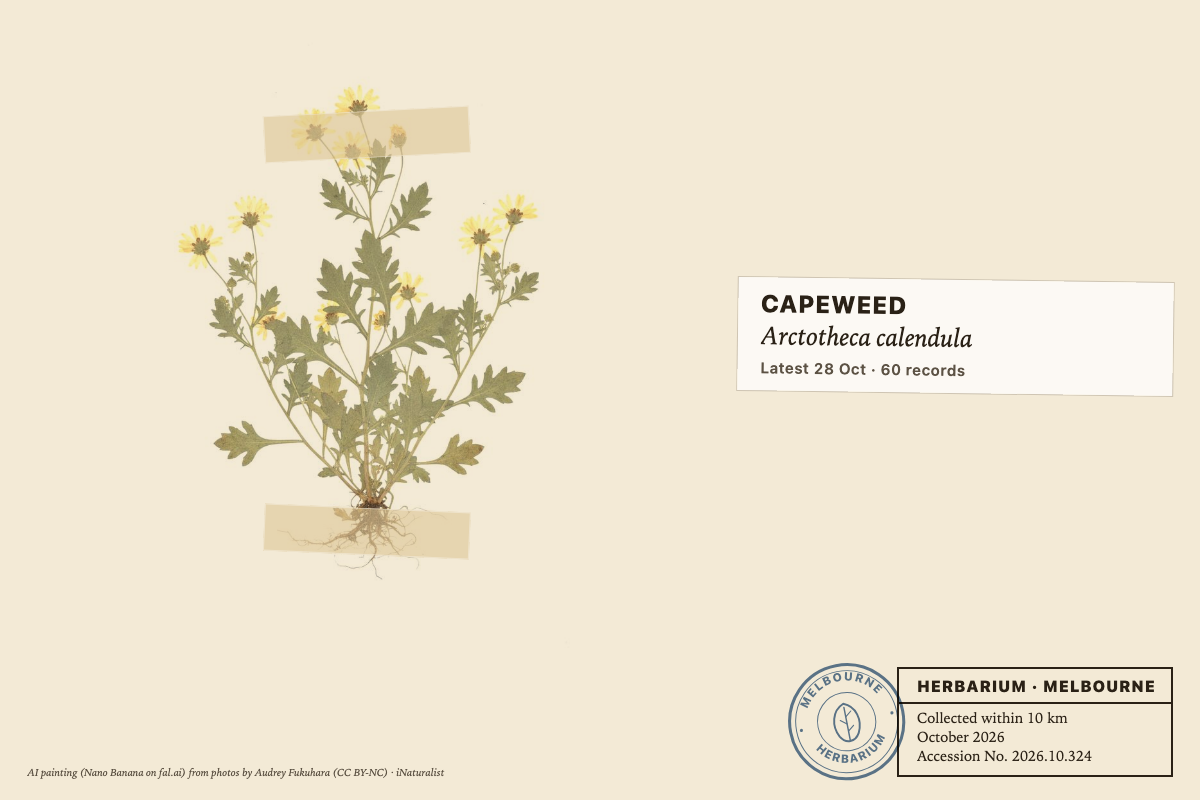
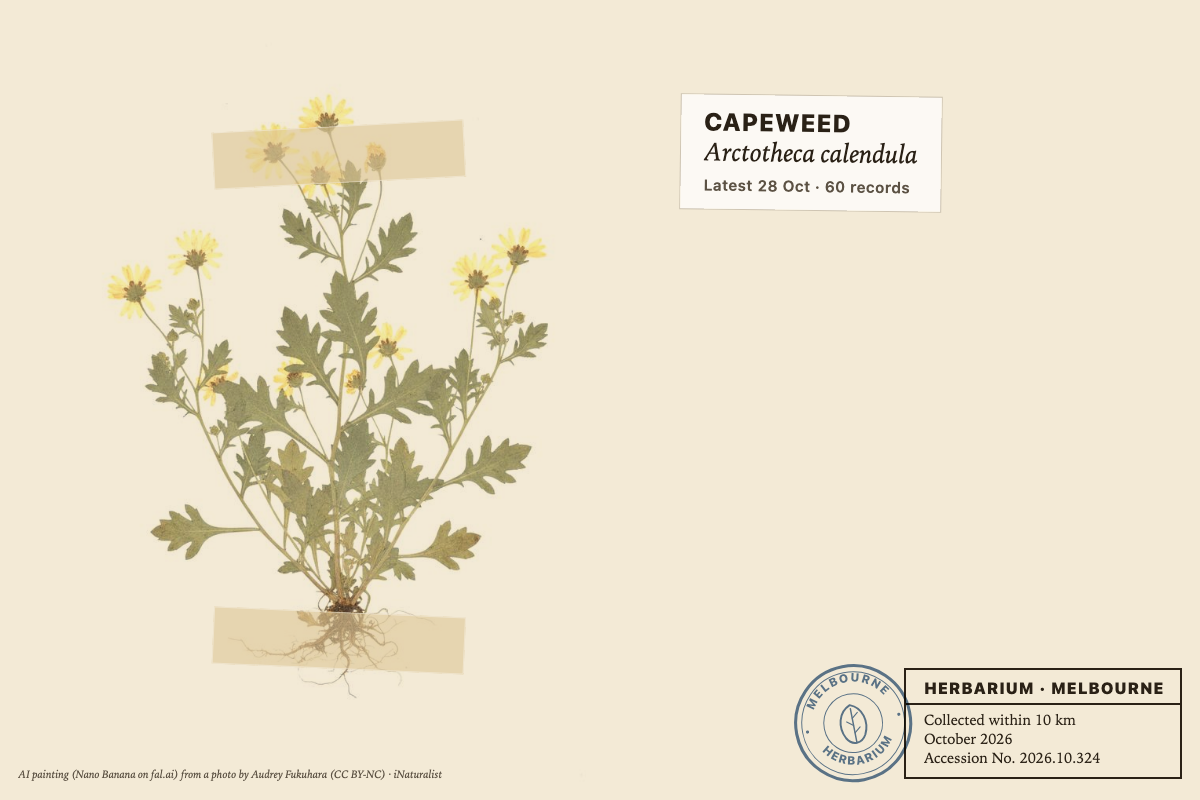
fix: larger specimen on the single plate, tighter mounted spacing
The single plate's mount now takes about nine tenths of the cell height with the label slip beside it on landscape and under it on portrait, the label block and stamp sitting over the corner. The mounted layout loses some padding and gap so the specimens grow.

diff --git a/client.css b/client.css
@@ -21,7 +21,7 @@
   color: var(--ink);
   font-family: var(--font-family, inherit);
   font-variant-numeric: tabular-nums;
-  padding: 3cqmin 3.4cqmin 2.2cqmin;
+  padding: 2.4cqmin 2.4cqmin 2cqmin;
 }
 .lv-gray16, .lv-gray4, .lv-mono { --ink: #000; --ink-soft: #222; --stamp: #000; }
 .lv-gray4, .lv-mono { --tape: rgba(0, 0, 0, 0.16); --tape-edge: rgba(0, 0, 0, 0.1); --slip: rgba(255, 255, 255, 0.9); }
@@ -31,7 +31,7 @@
 
 .mount {
   flex: 1 1 auto; min-height: 0;
-  display: grid; gap: 1.5cqmin 2.5cqmin;
+  display: grid; gap: 1cqmin 1.4cqmin;
   grid-auto-rows: minmax(0, 1fr);
   align-items: stretch;
 }
@@ -44,14 +44,14 @@
 .spec {
   margin: 0; min-height: 0; min-width: 0;
   display: flex; flex-direction: column; align-items: center; justify-content: center;
-  gap: 1.2cqmin;
+  gap: 0.5cqmin;
 }
 /* the picture's room: the rest of the column, but never taller than a 3:4
    box as wide as the column needs, so a wide cell centres the specimen and
    its slip rather than leaving a blank band above them */
 .pic {
   flex: 1 1 auto; min-height: 0; width: 100%;
-  max-height: calc((100cqw - 6.8cqmin - (var(--cols, 1) - 1) * 2.5cqmin) / var(--cols, 1) * 4 / 3);
+  max-height: calc((100cqw - 4.8cqmin - (var(--cols, 1) - 1) * 1.4cqmin) / var(--cols, 1) * 4 / 3);
   container-type: size;
   display: flex; align-items: flex-end; justify-content: center;
 }
@@ -126,7 +126,7 @@
 .foot {
   flex: 0 0 auto;
   display: flex; align-items: flex-end; justify-content: space-between; gap: 3cqmin;
-  margin-top: 1.6cqmin;
+  margin-top: 0.8cqmin;
 }
 .credits {
   flex: 1 1 auto; min-width: 0; align-self: flex-end;
@@ -163,13 +163,17 @@
 /* ---- single plate ----------------------------------------------------- */
 
 .lay-plate .mount { grid-template-columns: 1fr; }
-.lay-plate .spec { flex-direction: row; align-items: center; justify-content: center; gap: 4cqmin; }
-.lay-plate .pic { flex: 1 1 auto; height: 100%; max-height: none; align-items: center; }
+.lay-plate .spec { flex-direction: row; align-items: center; justify-content: flex-start; gap: 3cqmin; }
+.lay-plate .pic { flex: 0 0 auto; width: 55cqw; height: 100%; max-height: none; align-items: center; justify-content: center; }
 .lay-plate .pic-box { width: min(100%, 75cqh); }
-.lay-plate .slip { flex: 0 0 34cqw; align-items: flex-start; text-align: left; padding: 1.6cqmin 3cqmin 1.8cqmin; transform: rotate(0.8deg); }
+.lay-plate .slip { flex: 0 1 auto; min-width: 0; max-width: 36cqw; align-self: flex-start; margin-top: 10cqh; align-items: flex-start; text-align: left; padding: 1.6cqmin 3cqmin 1.8cqmin; transform: rotate(0.8deg); }
 .lay-plate .nm { font-size: clamp(14px, 3.2cqmin, 40px); white-space: normal; }
 .lay-plate .sci { font-size: clamp(14px, 3.4cqmin, 42px); white-space: normal; }
 .lay-plate .meta { font-size: clamp(11px, 2cqmin, 22px); margin-top: 0.5em; }
+/* landscape: the label block and the stamp sit over the page's corner, so the
+   specimen takes about nine tenths of the height */
+.lay-plate .foot { position: absolute; left: 2.4cqmin; right: 2.4cqmin; bottom: 2cqmin; margin: 0; }
+.lay-plate .credits { max-width: 50%; }
 
 /* ---- portrait and tall cells ------------------------------------------ */
 
@@ -178,10 +182,12 @@
   .n3 .spec:nth-child(3) { grid-column: 1 / -1; }
   .n4 .mount { --cols: 2; grid-template-columns: repeat(2, minmax(0, 1fr)); }
   .n6 .mount { --cols: 2; grid-template-columns: repeat(2, minmax(0, 1fr)); }
-  .lay-plate .spec { flex-direction: column; gap: 1.6cqmin; }
+  .lay-plate .spec { flex-direction: column; justify-content: center; gap: 1.2cqmin; }
   .lay-plate .pic { width: 100%; height: auto; flex: 1 1 auto; }
   .lay-plate .pic-box { width: min(100%, 75cqh); }
-  .lay-plate .slip { flex: 0 0 auto; align-items: center; text-align: center; max-width: 86%; }
+  .lay-plate .slip { flex: 0 0 auto; align-self: center; margin-top: 0; align-items: center; text-align: center; max-width: 86%; }
+  .lay-plate .foot { position: static; margin-top: 0.8cqmin; }
+  .lay-plate .credits { max-width: none; }
   .block { max-width: 60cqw; }
   .credits { -webkit-line-clamp: 2; }
 }
